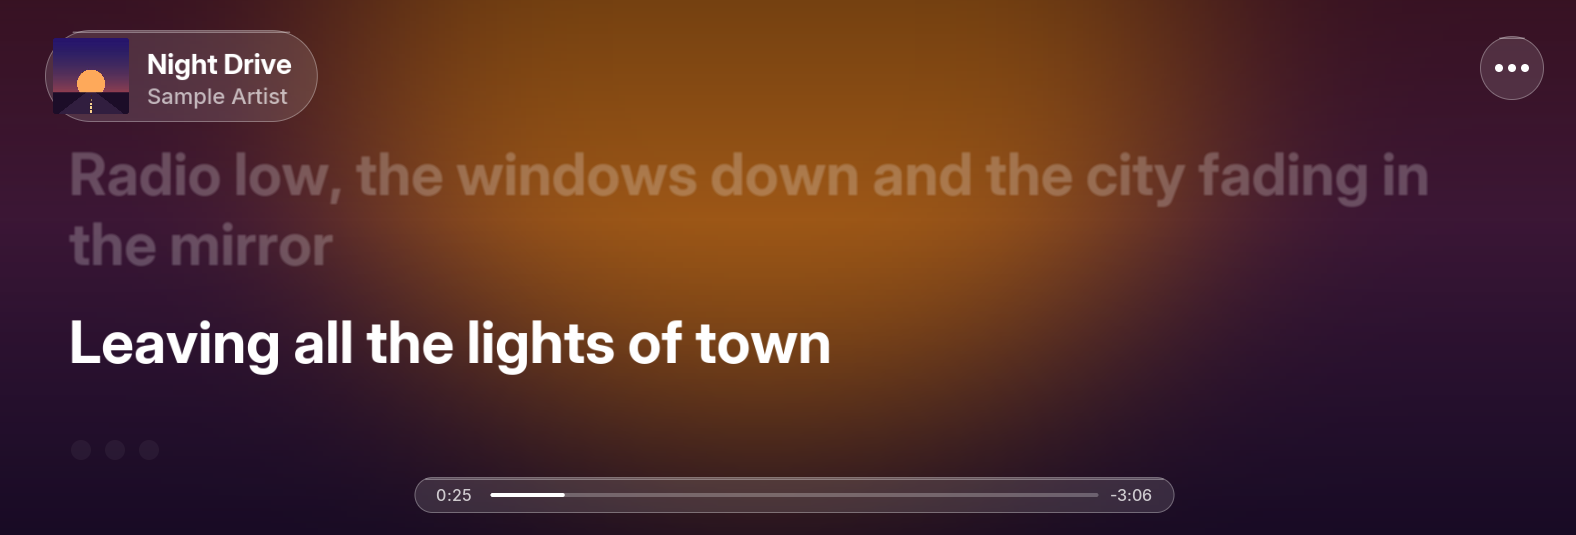
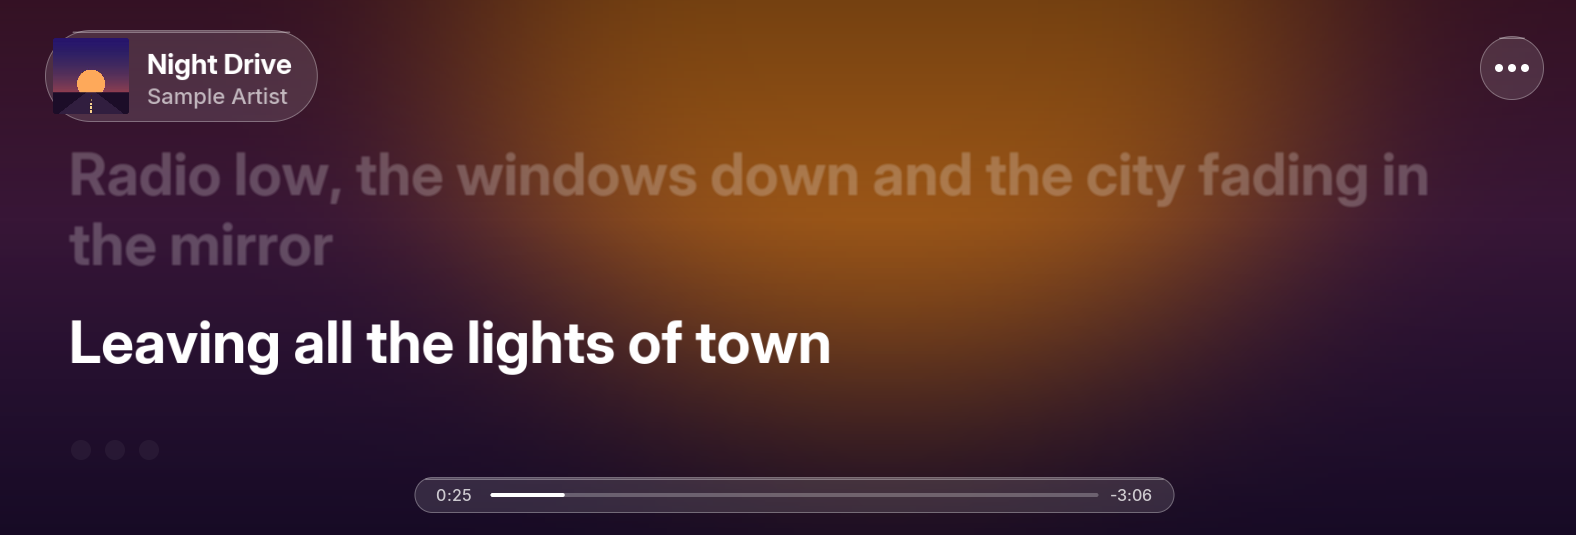
Car Lyrics 0.5.2: the background stays still by default (Settings > Background motion: Still or Slow drift)

Changed region(s): [[0.1865, 0.0, 0.4975, 0.8673], [0.7151, 0.0, 0.8395, 0.4486]]

diff --git a/apps/aref_carlyrics/main.js b/apps/aref_carlyrics/main.js
@@ -35,7 +35,7 @@ const ART = require('./artwork');
 const http = require('./http');
 const HW = require('./kit/homewidget');
 
-const VERSION = '0.5.1';
+const VERSION = '0.5.2';
 const HOMEPAGE = 'https://github.com/arefahmad/idrive7-apps';
 const W = 1600, H = 520;
 const IFACES = [
@@ -261,7 +261,8 @@ mgu.run({
             function backdrop(cv, a, now, P, fullH) {
                 if (a) {
                     // two blurred layers of the cover drifting past each other, slowly, as Apple Music's background flows
-                    const d = cur && cur.playing ? now / 1000 : 0;
+                    // Settings > Background motion: still (default) or a slow drift, as Apple Music's
+                    const d = settings.get('bg_motion') === 'drift' && cur && cur.playing ? now / 1000 : 0;
                     const layer = (id, sc, fx, fy, ph) => {
                         const bw = W * sc, bh = fullH * sc;
                         cv.image(id, (W - bw) / 2 + Math.sin(d / fx + ph) * 0.07 * W, (fullH - bh) / 2 + Math.cos(d / fy + ph) * 0.07 * fullH, bw, bh);
